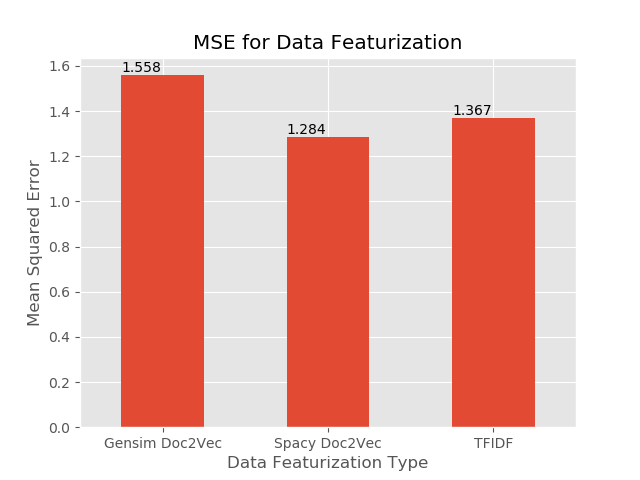
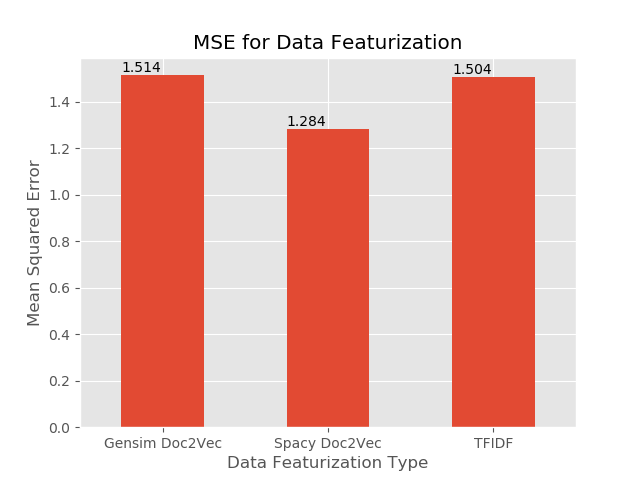
created final images Readme

diff --git a/src/ModelCompare.py b/src/ModelCompare.py
@@ -127,8 +127,8 @@ def Document_Save_to_file(filename, corpus, word_vec):
           f.write('\n')
 
 if __name__ == "__main__":
-    y, corpus = Get_Corpus('data/Amz_book_review_short.parquet', plot=False)
-    word_vec = Get_Corpus('data/Amz_book_review_short_vector.parquet', get_y=False, is_WordVec=True)
+    y, corpus = Get_Corpus('data/Amz_book_review_medium.parquet', plot=False)
+    word_vec = Get_Corpus('data/Amz_book_review_medium_vector.parquet', get_y=False, is_WordVec=True)
     
     # corpus_big, corpus_short, y_big, y_short = ModelSplitting(corpus, y, .25)
     # word_vec, word_vec_short, y_big, y_short = ModelSplitting(word_vec, y, .25)
@@ -144,15 +144,15 @@ if __name__ == "__main__":
                         ('tfidf', TfidfTransformer())
     ])
 
-    pca = PCA()
+    pca = PCA(n_components=250)
     X_train_tfidf = text_vect.fit_transform(X_train_tfidf).todense()
     X_test_tfidf = text_vect.transform(X_test_tfidf).todense()
     X_train_tfidf = pca.fit_transform(X_train_tfidf)
     X_test_tfidf = pca.transform(X_test_tfidf)
     
-    fig, ax = plt.subplots(figsize=(8,6))
-    scree_plot(ax, pca)
-    plt.savefig('images/Screeplot.png')
+    # fig, ax = plt.subplots(figsize=(8,6))
+    # scree_plot(ax, pca)
+    # plt.savefig('images/Screeplot.png')
 
     X_smt_tfidf, y_smt_tfidf = Smote(X_train_tfidf, y_train_tfidf)
     X_smt_vec_spacy, y_smt_vec_spacy = Smote(X_train_vec_spacy, y_train_vec_spacy)
@@ -185,7 +185,9 @@ if __name__ == "__main__":
 
     # comparing the models
     modelScores = {'Data Featurization Type': ['Gensim Doc2Vec','Spacy Doc2Vec', 'TFIDF'], 'Mean Squared Error' : [RandomForestMSE_vec_gensim, RandomForestMSE_vec_spacy, RandomForestMSE_tfidf]}
-    modelTime = {'Data Featurization Type': ['Gensim Doc2Vec','Spacy Doc2Vec', 'TFIDF'], 'Time To Train Model' : [gensim_build_time, spacy_build_time, tfidf_build_time], 'Time to Predict' : [gensim_predict_time, spacy_predict_time, tfidf_predict_time]}
+    modelTimeTrain = {'Data Featurization Type': ['Gensim Doc2Vec','Spacy Doc2Vec', 'TFIDF'], 'Time To Train Model' : [gensim_build_time, spacy_build_time, tfidf_build_time]}
+    modelTimePred = {'Data Featurization Type': ['Gensim Doc2Vec','Spacy Doc2Vec', 'TFIDF'], 'Time to Predict' : [gensim_predict_time, spacy_predict_time, tfidf_predict_time]}
 
-    bar_plot(modelScores, 'Mean Squared Error', 'MSE for Data Featurization', 'images/Model_MSE.png')
-    bar_plot(modelTime, 'Time (Seconds)', 'Model Time for Data Featurization', 'images/Model_Time.png', legend=True)
+    bar_plot(modelScores, 'Mean Squared Error', 'MSE for Data Featurization', 'images/Model_MSE_medium.png')
+    bar_plot(modelTimeTrain, 'Time (Seconds)', 'Time to Train Model', 'images/Model_Time_medium_Train.png')
+    bar_plot(modelTimePred, 'Time (Seconds)', 'Time to Predict from Model', 'images/Model_Time_medium_Predict.png')

diff --git a/readme.md b/readme.md
@@ -122,7 +122,7 @@ and acording to my gensim built on 20000 datapoints:
 |this be the second book I have read write by dr lee the book be great if you want scientific datum it be there but he explain it in such an oversimplified way that it be easy to apply his finding to your own health after read the book|re post though edit from blog I read through stanley grenz reason for hope the systematic theology of wolfhart pannenberg as well as few article by pannenberg over the course of week as diversion from the frantic preparation for move from country to another|cute cute cute|
 |this excellent biography miss the most common pitfall it do not engage in hagiography nor do it treat the subject in condescending way It be well research and well write highly recommend to anyone interested in margery allingham|this series be nothing but amazing from start to finish the twice lost be beautiful exciting and very very sad these book make the possibility of mermaid more real than ever this book be heart wrench ending to wonderful story great read for all age|good good book|
 
-As you can see there is some understadable realationship between each of these documents for what spacy produces with non-english reviews always beeing the most dissimular. With Gensim however the results seem a bit more random which I belive comes from how small the training set was (less than 2000 documents) which makes it a weaker model at the moment. But since I can train the gensim model I think that increasing the amount of data it trains on would inprove its results.
+With the spacy modle we as humans can see some relationship between the documents which does show that Doc2Vec produces simular vectors for simular documents. Gensim on the other hand is a bit more random which makes a lot of sense when you think that it was trained on a much smaller set of data than spacy likely was.
 
 [Back to Top](#table-of-contents)
 
@@ -150,9 +150,9 @@ After training the predicting off of these modes I found the following results w
 
 As you can see Spacy had the lowest MSE and Gensim and Tfidf have simular MSE. But this is only one metric so now lets look at the time
 
-![alt_test](images/Model_Time.png)
+![alt_test](images/Model_Time_Train.png)
 
-From this you can see that tfidf had the fastest build time and its predict time is tied with spacy. As a point of comparison rember that both of the Doc2Vec methods produce vecors of length 300 while tfidf is only 100 items long.
+From this you can see that tfidf had the lowest time to train, but it is so close to Spacy I think these can be thought of as taking the same time. As a point of comparison rember that both of the Doc2Vec methods produce vecors of length 300 while tfidf is only 100 items long.
 
 What in this case I think that I would pick spacy for data featurization because it has the best MSE and is in the medium for building and predict time.
 
@@ -164,21 +164,19 @@ To See what happens with more data points I increased the amount of data and re-
 
 ![alt_text](images/Model_MSE_medium.png)
 
+Once again the spacy Doc2Vec is performing the best while Gensim is performing the worst.
 
+![alt_text](images/Model_Time_medium_Train.png)
 
-![alt_text](images/Model_Time_medium.png)
-
-
+And when we look at the training time, Tfidf trains the fastest but in this case it is most likely due to the PCA that was applied to it earlier.
 
 [Back to Top](#table-of-contents)
 
 ## Conclusion
 
-If we look at both of these metrics, I would choose to use spacy because it performs only slightly worse than Tfidf but it trains the model the fastest and is tied for predict time. I belive that if the data was scalled up further or no pca being implimented spacy would massivly out perform Tfidf on the time while producing comparable MSE.
+If we look at both of these metrics and both data sets, spacy performs the best in MSE and is only sligtly slower than Tfidf in traning time. With gensim, it does perform the worst but from the research I have looked at, it seems that for a Doc2Vec to perform well it needs to train on a large amount of data (~ half a million). Even though I am using an out of the box model with spacy, the model that spacy is using has been trained on a lot more data than I have trained my gensim model on.
 
-With Gensim I think that it is performing the worst because I am building my own model which means that it only has so many data points to train on. Spacy performs well because it is a model that has already been built on a large amount of data while gensim has only been built on less than 2000 points of data. If I increased the size of my data set I belive that gensim would start to out perform spacy and Tfidf when looking at MSE and run in a simular amount of time to both spacy and Tfidf.
-
-In conclusion, it seems that in smaller datasets Tfidf performs the best but that Doc2Vec will inprove with larger datasets and more traning time.
+In conclusion, it seems that in smaller datasets Tfidf and spacy perform the best but acording to reasearch building a model will perform better in the long run.
 
 [Back to Top](#table-of-contents)
 
